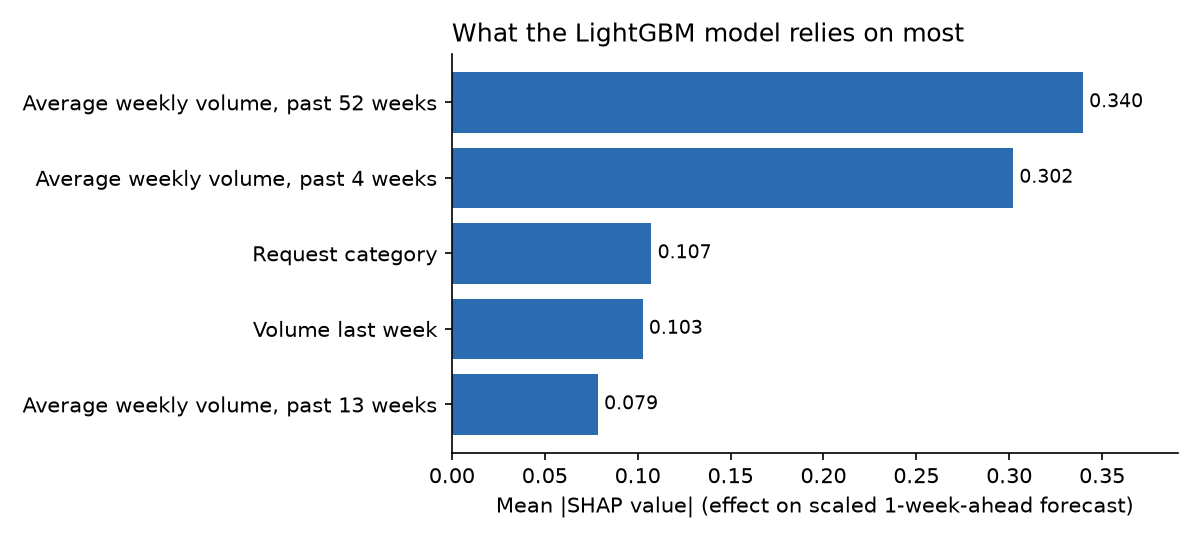
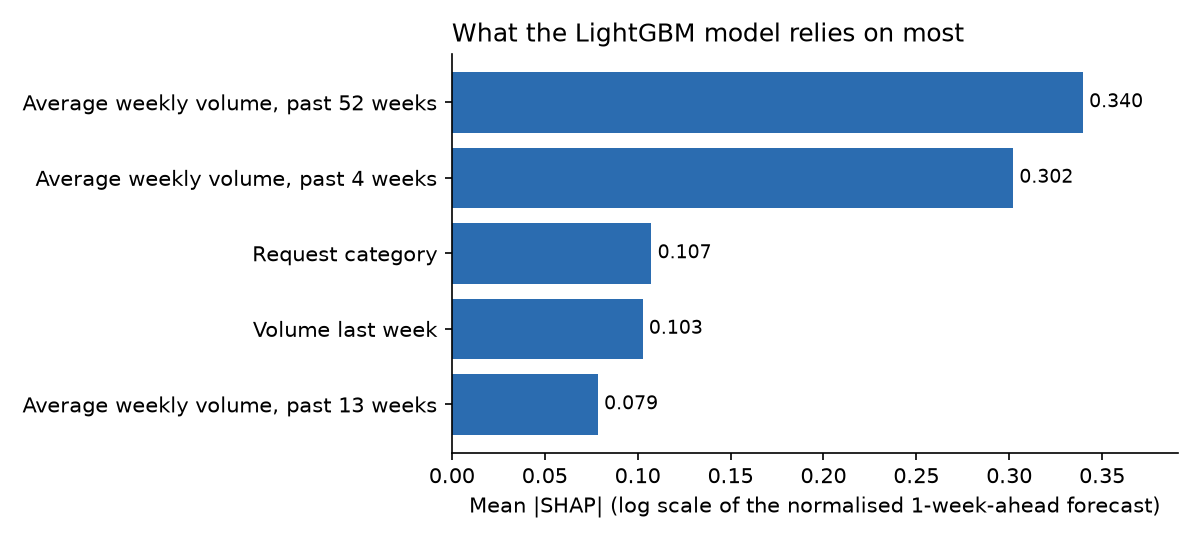
fix: Tuesday refresh cron; README and copy accuracy; declare deps; ingest backoff

Changed region(s): [[0.37, 0.9185, 0.9867, 0.9481]]

diff --git a/app/Home.py b/app/Home.py
@@ -92,8 +92,8 @@ st.plotly_chart(
     width="stretch",
 )
 st.caption(
-    "Color shows forecast demand relative to the seasonal norm (average of the same week in "
-    "prior years); red is above normal, blue below, grey means no seasonal norm is available for that area. "
+    "Color shows forecast demand relative to the seasonal norm (the average for the same week in "
+    "prior years, adjusted for the recent level); red is above normal, blue below, grey means no seasonal norm is available for that area. "
     "Click a district to select it."
 )
 
@@ -119,7 +119,7 @@ if st.button("Open district detail", key="home_open"):
 st.subheader("Surge watch")
 watch = lib.surge_watch(fc, target, horizon)
 st.caption(
-    f"Districts forecast at least 25% above their seasonal norm. {len(watch):,} of "
+    f"Districts forecast at least 25% above their seasonal norm (alerts need a norm of at least 5). {len(watch):,} of "
     f"{len(sel):,} districts are flagged."
 )
 if watch.empty:

diff --git a/scripts/make_readme_figures.py b/scripts/make_readme_figures.py
@@ -26,7 +26,7 @@ def shap_global(top_n: int = 5) -> Path:
     labels = [LABELS.get(f, f) for f in g["feature"]]
     fig, ax = plt.subplots(figsize=(8, 3.6), dpi=150)
     ax.barh(labels, g["mean_abs_shap"], color="#2b6cb0")
-    ax.set_xlabel("Mean |SHAP value| (effect on scaled 1-week-ahead forecast)")
+    ax.set_xlabel("Mean |SHAP| (log scale of the normalised 1-week-ahead forecast)")
     ax.set_title("What the LightGBM model relies on most", loc="left", fontsize=12)
     for side in ("top", "right"):
         ax.spines[side].set_visible(False)

diff --git a/app/pages/3_About.py b/app/pages/3_About.py
@@ -58,7 +58,8 @@ st.markdown(
 st.header("What counts as a surge")
 st.markdown(
     "A district-week is flagged as a surge when forecast demand is **at least 25% above the "
-    "seasonal norm**, the average of the same week in prior years. "
+    "seasonal norm**, the average for the same week in prior years, adjusted for the recent level, "
+    "and the norm must be at least 5 requests. "
     f"On the test period, **{lib.fmt_ratio(prec)}** of alerts were real surges and "
     f"**{lib.fmt_ratio(rec)}** of real surges were caught."
 )

diff --git a/app/pages/2_Model_Performance.py b/app/pages/2_Model_Performance.py
@@ -128,5 +128,5 @@ if not sg.empty:
     )
     st.caption(
         "Precision: share of alerts that were real surges. Recall: share of real surges that "
-        "were caught. The rule baseline flags a surge when last week was already high."
+        "were caught. The rule baseline flags a surge when the average of the last 4 weeks is already well above the norm."
     )

diff --git a/src/nyc311/ingest.py b/src/nyc311/ingest.py
@@ -25,7 +25,7 @@ class SocrataClient:
         session: requests.Session | None = None,
         token: str | None = None,
         max_attempts: int = 5,
-        base_sleep: float = 1.0,
+        base_sleep: float = 5.0,
     ):
         self.session = session or requests.Session()
         self.token = token if token is not None else os.environ.get(TOKEN_ENV_VAR)

diff --git a/src/nyc311/cli.py b/src/nyc311/cli.py
@@ -1,4 +1,4 @@
-"""Command-line entry point: `nyc311 ingest` and `nyc311 panel`."""
+"""Command-line entry point (`nyc311`): ingest, panel, backtest, evaluate-test, train, forecast, publish, refresh."""
 
 import itertools
 import os

diff --git a/README.md b/README.md
@@ -10,7 +10,7 @@ Four-week-ahead forecasts of weekly 311 request volume for every NYC community d
 
 NYC agencies staff for 311 demand that varies by neighborhood, request type and season. A district that is about to see far more heat and hot water complaints than usual needs attention before the calls arrive, not after. This project forecasts weekly request counts for 59 regular community districts (plus 12 special areas such as parks) across five request categories and the total, one to four weeks ahead, and flags districts expected to run well above their norm.
 
-The data is NYC Open Data's 311 Service Requests, refreshed weekly by a scheduled GitHub Actions job.
+The data is NYC Open Data's 311 Service Requests, refreshed weekly (Tuesdays 18:00 UTC) by a scheduled GitHub Actions job.
 
 ## Results
 
@@ -24,7 +24,7 @@ All numbers below are from the held-out test period: 12 forecast origins, every 
 | mstl | 0.1282 | 0.6786 | 0.7835 | 465.3751 |
 | **lgbm** | **0.1177** | **0.6231** | 0.8086 | 418.6240 |
 
-WAPE is total absolute error divided by total actual demand (lower is better). MASE scales error by the seasonal-naive forecast's error, so 1.0 means "no better than last year's same week". The global LightGBM model beats both baselines and both statistical models on WAPE and MASE, and its P10-P90 interval covers 80.9% of actuals against a nominal 80%. The model's hyperparameters were tuned on a separate validation period; the best grid setting scored a validation WAPE of 0.1166 (`validation_grid.csv`).
+WAPE is total absolute error divided by total actual demand (lower is better). MASE scales error by the seasonal-naive forecast's error, so 1.0 means "no better than last year's same week". The global LightGBM model beats both baselines and both statistical models on WAPE and MASE, and its P10-P90 interval covers 80.9% of actuals against a nominal 80%. The model's hyperparameters were tuned on a separate validation period; the best grid setting scored a validation WAPE of 0.1166 (`validation_grid.csv`). The `reports/validation_*` tables were produced with the default LightGBM parameters before tuning; the tuned validation score is in `reports/validation_grid.csv`.
 
 Accuracy falls as the horizon grows:
 
@@ -109,13 +109,14 @@ The model is not equally accurate everywhere. The Bronx (0.1890) has about twice
 
 ![Global SHAP importance](reports/figures/shap_global.png)
 
-Mean absolute SHAP values for the one-week-ahead LightGBM model show that the forecast is mostly driven by a district's own recent history: the 52-week average (0.340) and 4-week average (0.302) are well ahead of the next feature, request category (0.107). Only the top five features are shown. This is a statement about what the model uses, not about causes.
+Mean absolute SHAP values for the one-week-ahead LightGBM model (fit on data through 2026-10-19; the live app updates weekly) are in log scale of the normalised forecast, because the model uses a Tweedie log link. They show that the forecast is mostly driven by a district's own recent history: the 52-week average (0.340) and 4-week average (0.302) are well ahead of the next feature, request category (0.107). Only the top five features are shown. This is a statement about what the model uses, not about causes.
 
 ## Limitations and future work
 
 - **Reporting is not need.** 311 counts measure who calls, not who needs service. Use of 311 is uneven across neighborhoods, so a low count may reflect low reporting.
 - **Surge flags are relative to a norm built from prior years.** If a district has been growing, the norm lags and surges are over-counted. About a third of series-weeks in the test period (6,076 of 16,992) were flagged as actual surges, so "surge" here means "above a lagging seasonal norm", not "unusual".
 - **No weather inputs.** Heat and hot water and noise are weather-sensitive, and heat and hot water is the weakest category (WAPE 0.3427).
+- **Small test sample.** The test period has 12 forecast origins over one year, so the figures above carry real sampling uncertainty.
 - **Four-week intervals are too narrow** (75.0% coverage vs 80% nominal).
 - **Future work:** weather covariates; deep-learning models as a comparison; an orchestrator such as Airflow (an idea only; scheduling today is a GitHub Actions cron job); tuning the alert threshold, which is currently a fixed 1.25 times the norm.
 
@@ -137,12 +138,15 @@ SOCRATA_APP_TOKEN=your_token_here
 ```bash
 uv run nyc311 refresh                       # ingest, panel, train, forecast, publish
 uv run nyc311 backtest --period validation  # rolling-origin validation backtest
+uv run nyc311 evaluate-test                 # final test evaluation: run ONCE
 uv run streamlit run app/Home.py            # dashboard
 uv run pytest                               # tests
 uv run python scripts/make_readme_figures.py  # regenerate the SHAP figure
 ```
 
 On macOS, if `uv run nyc311` fails with `ModuleNotFoundError`, run `chflags nohidden .venv/lib/python3.12/site-packages/*.pth`.
+
+`evaluate-test` is meant to run once: it refuses if `reports/test_overall.csv` exists unless `--force`. After new data arrives, a forced re-run would add forecast origins and change the reported numbers.
 
 Report tables and figures in `reports/` come from the backtest and test evaluation commands; the numbers in this README are copied from `reports/test_*.md` and `reports/validation_grid.csv`.
 

diff --git a/docs/superpowers/specs/2026-10-27-nyc311-demand-forecasting-design.md b/docs/superpowers/specs/2026-10-27-nyc311-demand-forecasting-design.md
@@ -1,7 +1,7 @@
 # NYC 311 Service Demand Forecasting — Design Spec
 
 **Date:** 2026-10-27
-**Status:** Draft for review
+**Status:** Approved — implemented on feat/v1
 **Owner:** Isabella Shi
 
 ## 1. Purpose
@@ -104,7 +104,7 @@ There are six targets: `total` plus five categories, mapped in `config/categorie
 
 - SHAP `TreeExplainer` on the h=1 point model, using up to 20,000 training rows sampled at the final fit.
 - **Outputs:** mean |SHAP| per feature globally, per target, and per (borocd, target), keeping the top 5 features.
-- MLflow tracks to the local `mlruns/` folder (git-ignored), with one run per (model, period, origin) and a parent run per backtest.
+- MLflow tracks to the local `mlruns/` folder (git-ignored), with one run per (model, period) under a parent run per backtest.
 
 ## 7. Dashboard
 
@@ -129,7 +129,7 @@ There are six targets: `total` plus five categories, mapped in `config/categorie
 - **Ingest** is incremental. Months already completed (a file exists in `data/raw/` and the month ended more than 31 days before today) are skipped. The current and previous months are always re-pulled. Files are written to a temporary path and then atomically renamed. Requests retry on 429 or 5xx with exponential backoff, at most 5 attempts.
 - **GitHub Actions:**
   - `ci.yml` runs `ruff check` and `pytest` on push and PR.
-  - `weekly_refresh.yml` runs on cron `0 10 * * 1` (Mondays 10:00 UTC) plus `workflow_dispatch`. It runs `nyc311 refresh` and commits `app/data/` only if the step succeeds.
+  - `weekly_refresh.yml` runs on cron `0 18 * * 2` (Tuesdays 18:00 UTC; the dataset loads with ~1-day lag, so by Tuesday afternoon Monday's records exist and the prior Mon-Sun week counts as complete) plus `workflow_dispatch`. It runs `nyc311 refresh` and commits `app/data/` only if the step succeeds.
 - **Stretch:** an Airflow DAG in `dags/nyc311_weekly.py` with `BashOperator`s calling the same CLI commands, plus `dags/docker-compose.yml`.
 - **Environment:** `uv`, Python 3.12. `.env` is git-ignored and `.env.example` is committed. `data/` and `mlruns/` are git-ignored.
 
